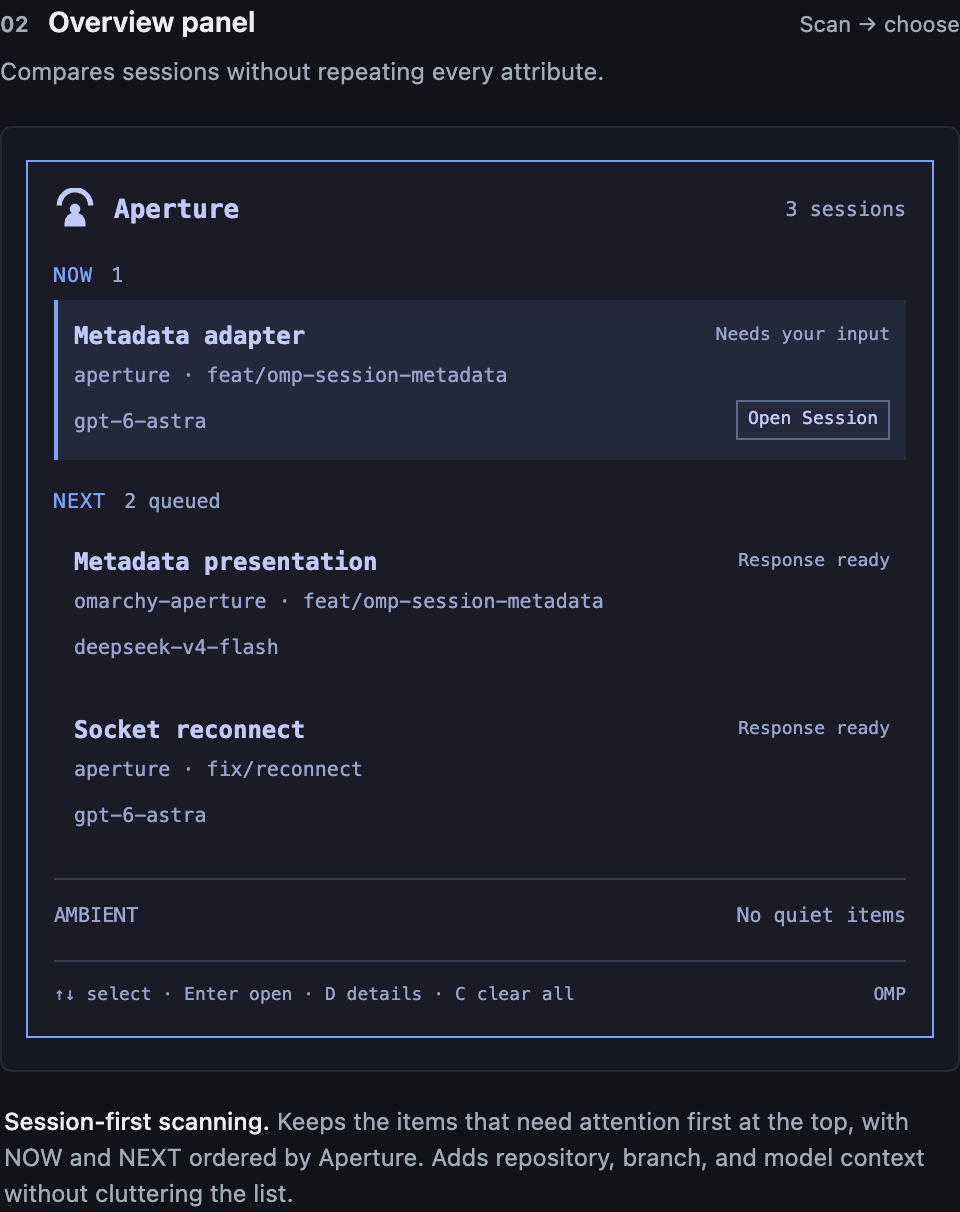
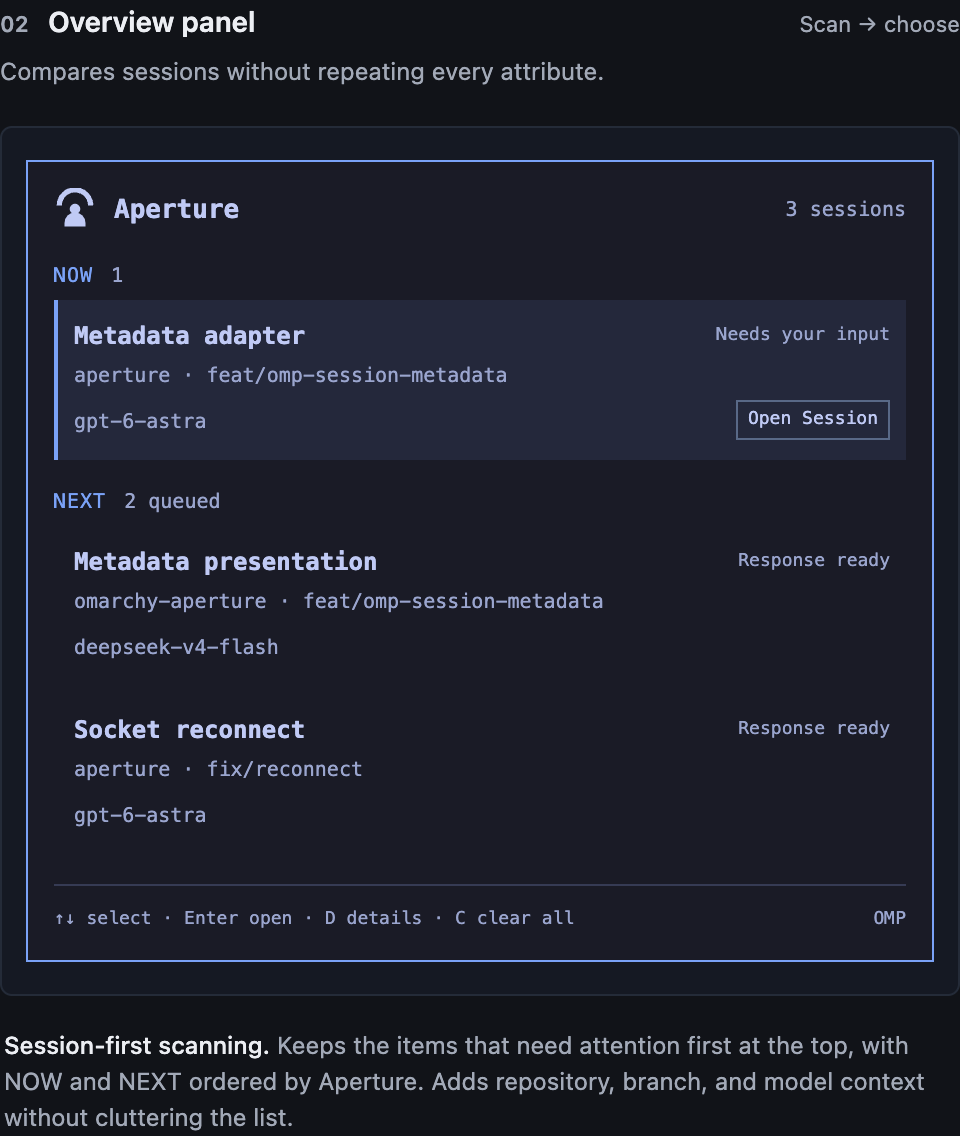
fix: polish empty overview and center Details navigation

diff --git a/docs/mockups/session-metadata.html b/docs/mockups/session-metadata.html
@@ -6,12 +6,12 @@
 <title>Aperture · Session metadata illustrations</title>
 <style>
 :root{color-scheme:dark;--page:#111318;--ink:#eceef3;--quiet:#a2a9b7;--line:#303540;--control:#20242d;--blue:#9bbaff}
-*{box-sizing:border-box}body{margin:0;background:var(--page);color:var(--ink);font:14px/1.5 -apple-system,BlinkMacSystemFont,"Segoe UI",sans-serif}button,input{font:inherit}button{cursor:pointer}button:focus-visible,a:focus-visible,input:focus-visible,[tabindex]:focus-visible{outline:2px solid var(--blue);outline-offset:4px}button:disabled{opacity:.4;cursor:default}main{max-width:1500px;margin:auto;padding:36px 36px 48px}.eyebrow{font-size:11px;letter-spacing:.13em;text-transform:uppercase;color:var(--quiet)}header{display:flex;justify-content:space-between;gap:32px;align-items:flex-start}h1{font-size:30px;line-height:1.2;letter-spacing:-.025em;font-weight:600;margin:9px 0 10px}header p{margin:0;color:var(--quiet);max-width:690px}.draft{font-size:11px;color:var(--quiet);border:1px solid var(--line);border-radius:20px;padding:5px 12px;white-space:nowrap;margin-top:5px}.controls{display:flex;align-items:center;justify-content:space-between;flex-wrap:wrap;gap:16px;padding:24px 0 18px}.switcher{display:flex;gap:4px;padding:4px;background:var(--control);border:1px solid var(--line);border-radius:8px}.switcher button{border:0;border-radius:4px;padding:8px 14px;background:none;color:var(--quiet);font-size:12px}.switcher button[aria-pressed=true]{background:#394358;color:#fff}.toggles{display:flex;align-items:center;gap:18px;font-size:12px;color:var(--quiet)}.toggles label{display:flex;gap:7px;align-items:center;cursor:pointer}.toggles input{accent-color:var(--blue)}.thesis{display:flex;align-items:baseline;gap:12px;border-top:1px solid var(--line);border-bottom:1px solid var(--line);padding:14px 0;margin-bottom:28px;font-size:13px}.thesis strong{color:var(--blue);white-space:nowrap}.thesis span{color:var(--quiet)}.board{display:grid;grid-template-columns:1fr 1.08fr 1.08fr;gap:24px;align-items:start}.column{min-width:0}.column-head{display:flex;justify-content:space-between;align-items:baseline;gap:8px;margin-bottom:6px}.column h2{font-size:14px;margin:0;font-weight:600}.number{color:var(--quiet);font-size:11px;margin-right:6px}.verb{font-size:11px;color:var(--quiet)}.purpose{color:var(--quiet);font-size:12px;margin:0 0 18px;min-height:36px}.canvas{min-height:422px;padding:16px 12px;border-radius:6px;background:#151923;border:1px solid #242b38}.surface{--panel:#1a1b26;--raised:#24283b;--text:#c0caf5;--muted:#9aa5ce;--accent:#7aa2f7;--edge:#596987;--faint:#363b54;font:12px/1.5 "SFMono-Regular",Consolas,"Liberation Mono",monospace;color:var(--text)}.light .surface{--panel:#e6e9ef;--raised:#d5dbe7;--text:#253653;--muted:#4d5c76;--accent:#2455a0;--edge:#7587a1;--faint:#c0c9d8}.light .canvas{background:#d4dae3;border-color:#abb8c9}.surface button{color:var(--text);font:inherit;border:1px solid var(--edge);background:none;border-radius:0;padding:3px 7px;white-space:nowrap}.surface button:hover{background:var(--raised)}.surface button:focus-visible{outline-color:var(--accent);outline-offset:2px}.surface button.quiet{border-color:transparent;color:var(--muted)}.surface button.quiet:hover{border-color:var(--edge)}.mark{width:21px;height:21px;color:var(--text);flex-shrink:0}.toast{background:var(--panel);border:1px solid var(--edge);padding:12px;margin-bottom:12px;display:flex;gap:11px;position:relative}.toast .mark{margin-top:1px}.toast-body{min-width:0;flex:1}.primary{font-size:13px;font-weight:700;white-space:nowrap;overflow:hidden;text-overflow:ellipsis;line-height:1.5}.secondary{font-size:11px;color:var(--muted);white-space:nowrap;overflow:hidden;text-overflow:ellipsis}.status{font-size:11px;margin-top:2px}.context{font-size:10px;color:var(--muted);white-space:nowrap;overflow:hidden;text-overflow:ellipsis;margin-top:8px}.toast-footer{display:flex;align-items:center;justify-content:space-between;gap:6px;margin-top:10px;min-height:23px}.model{font-size:10px;color:var(--muted);white-space:nowrap;overflow:hidden;text-overflow:ellipsis;min-width:0}.actions{display:flex;gap:3px;opacity:0;pointer-events:none;flex-shrink:0}.actions button{font-size:9px;padding:3px 5px}.toast:hover .actions,.toast:focus-within .actions{opacity:1;pointer-events:auto}.checkout-tag{font-size:10px;color:var(--muted);margin-top:5px;white-space:nowrap;overflow:hidden;text-overflow:ellipsis}.surface-note{font-size:10px;color:var(--muted);padding:4px 1px}.overview,.detail{background:var(--panel);border:1px solid var(--accent);padding:13px}.surface-heading{display:flex;align-items:center;gap:9px;margin-bottom:15px;font-weight:700;font-size:13px}.surface-heading .hint{margin-left:auto;font-size:10px;font-weight:400;color:var(--muted)}.lane-heading{font-size:10px;color:var(--accent);margin:13px 0 5px;letter-spacing:.05em;display:flex;gap:9px}.lane-heading span{color:var(--muted);letter-spacing:0}.row{position:relative;padding:9px 8px;margin-bottom:4px;border-left:2px solid transparent;min-width:0}.row.selected{background:var(--raised);border-left-color:var(--accent)}.row:hover,.row:focus-within{background:var(--raised)}.row-top{display:flex;align-items:center;gap:7px}.row-top .primary{flex:1;min-width:0;font-size:12px}.row-top .row-status{font-size:9px;white-space:nowrap;color:var(--muted)}.row .context{margin-top:3px}.row-bottom{display:flex;align-items:center;justify-content:space-between;gap:8px;min-height:22px;margin-top:4px}.row .row-actions{opacity:0;display:flex;gap:3px}.row.selected .row-actions,.row:hover .row-actions,.row:focus-within .row-actions{opacity:1}.row-actions button{font-size:9px;padding:2px 5px}.quiet-lane{border-top:1px solid var(--faint);margin-top:12px;padding-top:10px;display:flex;justify-content:space-between;color:var(--muted);font-size:10px}.surface-footer{border-top:1px solid var(--faint);margin-top:15px;padding-top:10px;font-size:9px;color:var(--muted);display:flex;justify-content:space-between;gap:8px}.details-toolbar{display:flex;justify-content:space-between;align-items:center;padding-bottom:12px;border-bottom:1px solid var(--faint);margin-bottom:14px}.details-toolbar span{font-size:10px;color:var(--muted)}.details-toolbar button{font-size:10px}.detail .primary{white-space:normal;overflow-wrap:anywhere;font-size:14px}.detail .event-body{font-size:11px;margin:12px 0 18px;color:var(--text);overflow-wrap:anywhere}.section-label{font-size:9px;letter-spacing:.08em;color:var(--muted);margin:17px 0 8px;text-transform:uppercase}.facts{margin:0;display:grid;grid-template-columns:78px minmax(0,1fr);font-size:10px;gap:8px 10px}.facts dt{color:var(--muted)}.facts dd{margin:0;overflow-wrap:anywhere}.facts .mono{font-variant-ligatures:none}.scope-note{font-size:10px;color:var(--muted);border-top:1px solid var(--faint);padding-top:12px;margin:17px 0 0}.privacy-note{padding:14px 0;color:var(--muted);font-size:11px}.privacy-note button{display:block;margin-top:13px;font-size:10px}.revealed{color:var(--accent);font-size:10px;margin-bottom:10px}.description{font-size:12px;color:var(--quiet);margin:16px 2px 0}.description strong{color:var(--ink);font-weight:500}.annotations{margin-top:28px;display:grid;grid-template-columns:1fr 1fr 1fr;gap:24px;border-top:1px solid var(--line);padding-top:22px}.annotations h3{font-size:12px;font-weight:600;margin:0 0 7px}.annotations p{font-size:12px;color:var(--quiet);margin:0}.comparison{margin-top:28px;border-top:1px solid var(--line);padding-top:20px}.comparison h2{font-size:14px;font-weight:600;margin:0 0 12px}.comparison table{border-collapse:collapse;width:100%;font-size:12px;text-align:left}.comparison th{color:var(--quiet);font-weight:500}.comparison td,.comparison th{padding:9px 12px;border-bottom:1px solid var(--line);vertical-align:top}.comparison td:first-child,.comparison th:first-child{padding-left:0}.comparison td:not(:first-child){color:var(--quiet)}.footer{margin-top:24px;display:flex;justify-content:space-between;gap:20px;color:var(--quiet);font-size:11px}.feedback{min-height:20px;margin-top:10px;font-size:12px;color:var(--blue)}.sr-only{position:absolute;width:1px;height:1px;overflow:hidden;clip-path:inset(50%)}
+*{box-sizing:border-box}body{margin:0;background:var(--page);color:var(--ink);font:14px/1.5 -apple-system,BlinkMacSystemFont,"Segoe UI",sans-serif}button,input{font:inherit}button{cursor:pointer}button:focus-visible,a:focus-visible,input:focus-visible,[tabindex]:focus-visible{outline:2px solid var(--blue);outline-offset:4px}button:disabled{opacity:.4;cursor:default}main{max-width:1500px;margin:auto;padding:36px 36px 48px}.eyebrow{font-size:11px;letter-spacing:.13em;text-transform:uppercase;color:var(--quiet)}header{display:flex;justify-content:space-between;gap:32px;align-items:flex-start}h1{font-size:30px;line-height:1.2;letter-spacing:-.025em;font-weight:600;margin:9px 0 10px}header p{margin:0;color:var(--quiet);max-width:690px}.draft{font-size:11px;color:var(--quiet);border:1px solid var(--line);border-radius:20px;padding:5px 12px;white-space:nowrap;margin-top:5px}.controls{display:flex;align-items:center;justify-content:space-between;flex-wrap:wrap;gap:16px;padding:24px 0 18px}.switcher{display:flex;gap:4px;padding:4px;background:var(--control);border:1px solid var(--line);border-radius:8px}.switcher button{border:0;border-radius:4px;padding:8px 14px;background:none;color:var(--quiet);font-size:12px}.switcher button[aria-pressed=true]{background:#394358;color:#fff}.toggles{display:flex;align-items:center;gap:18px;font-size:12px;color:var(--quiet)}.toggles label{display:flex;gap:7px;align-items:center;cursor:pointer}.toggles input{accent-color:var(--blue)}.thesis{display:flex;align-items:baseline;gap:12px;border-top:1px solid var(--line);border-bottom:1px solid var(--line);padding:14px 0;margin-bottom:28px;font-size:13px}.thesis strong{color:var(--blue);white-space:nowrap}.thesis span{color:var(--quiet)}.board{display:grid;grid-template-columns:1fr 1.08fr 1.08fr;gap:24px;align-items:start}.column{min-width:0}.column-head{display:flex;justify-content:space-between;align-items:baseline;gap:8px;margin-bottom:6px}.column h2{font-size:14px;margin:0;font-weight:600}.number{color:var(--quiet);font-size:11px;margin-right:6px}.verb{font-size:11px;color:var(--quiet)}.purpose{color:var(--quiet);font-size:12px;margin:0 0 18px;min-height:36px}.canvas{min-height:422px;padding:16px 12px;border-radius:6px;background:#151923;border:1px solid #242b38}.surface{--panel:#1a1b26;--raised:#24283b;--text:#c0caf5;--muted:#9aa5ce;--accent:#7aa2f7;--edge:#596987;--faint:#363b54;font:12px/1.5 "SFMono-Regular",Consolas,"Liberation Mono",monospace;color:var(--text)}.light .surface{--panel:#e6e9ef;--raised:#d5dbe7;--text:#253653;--muted:#4d5c76;--accent:#2455a0;--edge:#7587a1;--faint:#c0c9d8}.light .canvas{background:#d4dae3;border-color:#abb8c9}.surface button{color:var(--text);font:inherit;border:1px solid var(--edge);background:none;border-radius:0;padding:3px 7px;white-space:nowrap}.surface button:hover{background:var(--raised)}.surface button:focus-visible{outline-color:var(--accent);outline-offset:2px}.surface button.quiet{border-color:transparent;color:var(--muted)}.surface button.quiet:hover{border-color:var(--edge)}.mark{width:21px;height:21px;color:var(--text);flex-shrink:0}.toast{background:var(--panel);border:1px solid var(--edge);padding:12px;margin-bottom:12px;display:flex;gap:11px;position:relative}.toast .mark{margin-top:1px}.toast-body{min-width:0;flex:1}.primary{font-size:13px;font-weight:700;white-space:nowrap;overflow:hidden;text-overflow:ellipsis;line-height:1.5}.secondary{font-size:11px;color:var(--muted);white-space:nowrap;overflow:hidden;text-overflow:ellipsis}.status{font-size:11px;margin-top:2px}.context{font-size:10px;color:var(--muted);white-space:nowrap;overflow:hidden;text-overflow:ellipsis;margin-top:8px}.toast-footer{display:flex;align-items:center;justify-content:space-between;gap:6px;margin-top:10px;min-height:23px}.model{font-size:10px;color:var(--muted);white-space:nowrap;overflow:hidden;text-overflow:ellipsis;min-width:0}.actions{display:flex;gap:3px;opacity:0;pointer-events:none;flex-shrink:0}.actions button{font-size:9px;padding:3px 5px}.toast:hover .actions,.toast:focus-within .actions{opacity:1;pointer-events:auto}.checkout-tag{font-size:10px;color:var(--muted);margin-top:5px;white-space:nowrap;overflow:hidden;text-overflow:ellipsis}.surface-note{font-size:10px;color:var(--muted);padding:4px 1px}.overview,.detail{background:var(--panel);border:1px solid var(--accent);padding:13px}.surface-heading{display:flex;align-items:center;gap:9px;margin-bottom:15px;font-weight:700;font-size:13px}.surface-heading .hint{margin-left:auto;font-size:10px;font-weight:400;color:var(--muted)}.lane-heading{font-size:10px;color:var(--accent);margin:13px 0 5px;letter-spacing:.05em;display:flex;gap:9px}.lane-heading span{color:var(--muted);letter-spacing:0}.row{position:relative;padding:9px 8px;margin-bottom:4px;border-left:2px solid transparent;min-width:0}.row.selected{background:var(--raised);border-left-color:var(--accent)}.row:hover,.row:focus-within{background:var(--raised)}.row-top{display:flex;align-items:center;gap:7px}.row-top .primary{flex:1;min-width:0;font-size:12px}.row-top .row-status{font-size:9px;white-space:nowrap;color:var(--muted)}.row .context{margin-top:3px}.row-bottom{display:flex;align-items:center;justify-content:space-between;gap:8px;min-height:22px;margin-top:4px}.row .row-actions{opacity:0;display:flex;gap:3px}.row.selected .row-actions,.row:hover .row-actions,.row:focus-within .row-actions{opacity:1}.row-actions button{font-size:9px;padding:2px 5px}.surface-footer{border-top:1px solid var(--faint);margin-top:15px;padding-top:10px;font-size:9px;color:var(--muted);display:flex;justify-content:space-between;gap:8px}.details-toolbar{display:flex;justify-content:space-between;align-items:center;padding-bottom:12px;border-bottom:1px solid var(--faint);margin-bottom:14px}.details-toolbar span{font-size:10px;color:var(--muted)}.details-toolbar button{font-size:10px}.detail .primary{white-space:normal;overflow-wrap:anywhere;font-size:14px}.detail .event-body{font-size:11px;margin:12px 0 18px;color:var(--text);overflow-wrap:anywhere}.section-label{font-size:9px;letter-spacing:.08em;color:var(--muted);margin:17px 0 8px;text-transform:uppercase}.facts{margin:0;display:grid;grid-template-columns:78px minmax(0,1fr);font-size:10px;gap:8px 10px}.facts dt{color:var(--muted)}.facts dd{margin:0;overflow-wrap:anywhere}.facts .mono{font-variant-ligatures:none}.scope-note{font-size:10px;color:var(--muted);border-top:1px solid var(--faint);padding-top:12px;margin:17px 0 0}.privacy-note{padding:14px 0;color:var(--muted);font-size:11px}.privacy-note button{display:block;margin-top:13px;font-size:10px}.revealed{color:var(--accent);font-size:10px;margin-bottom:10px}.description{font-size:12px;color:var(--quiet);margin:16px 2px 0}.description strong{color:var(--ink);font-weight:500}.annotations{margin-top:28px;display:grid;grid-template-columns:1fr 1fr 1fr;gap:24px;border-top:1px solid var(--line);padding-top:22px}.annotations h3{font-size:12px;font-weight:600;margin:0 0 7px}.annotations p{font-size:12px;color:var(--quiet);margin:0}.comparison{margin-top:28px;border-top:1px solid var(--line);padding-top:20px}.comparison h2{font-size:14px;font-weight:600;margin:0 0 12px}.comparison table{border-collapse:collapse;width:100%;font-size:12px;text-align:left}.comparison th{color:var(--quiet);font-weight:500}.comparison td,.comparison th{padding:9px 12px;border-bottom:1px solid var(--line);vertical-align:top}.comparison td:first-child,.comparison th:first-child{padding-left:0}.comparison td:not(:first-child){color:var(--quiet)}.footer{margin-top:24px;display:flex;justify-content:space-between;gap:20px;color:var(--quiet);font-size:11px}.feedback{min-height:20px;margin-top:10px;font-size:12px;color:var(--blue)}.sr-only{position:absolute;width:1px;height:1px;overflow:hidden;clip-path:inset(50%)}
 @media(max-width:1100px){main{padding:24px}.board{grid-template-columns:1fr 1fr}.column:last-child{grid-column:1/-1;max-width:510px;width:100%}.canvas{min-height:0}.purpose{min-height:0}.annotations{grid-template-columns:1fr}.thesis{align-items:flex-start}.comparison{overflow:auto}}
 @media(max-width:640px){main{padding:22px 16px}.board{grid-template-columns:1fr;gap:28px}.column:last-child{grid-column:auto;max-width:none}header{display:block}.draft{display:inline-block;margin-top:18px}.controls{align-items:flex-start}.toggles{gap:12px;flex-wrap:wrap}.switcher{width:100%}.switcher button{flex:1;padding:8px}.thesis{display:block}.thesis strong{display:block;margin-bottom:5px}.footer{display:block}.footer span{display:block;margin-bottom:7px}}
 @media(prefers-reduced-motion:no-preference){.actions,.row-actions{transition:opacity .12s ease}}
 /* Review-only controls; the board itself is also the documentation illustration. */
-.preview-toolbar{display:flex;align-items:center;flex-wrap:wrap;gap:12px;padding:18px 0;color:var(--quiet);font-size:12px}.preview-toolbar select,.preview-toolbar button{background:var(--control);color:var(--ink);border:1px solid var(--line);border-radius:4px;padding:6px 10px;font:inherit}.preview-toolbar label{display:flex;gap:9px;align-items:center}.keyboard-target{margin-left:auto;font-size:11px}.interactive-view:focus{outline:2px solid var(--blue);outline-offset:4px}.toast,.row{cursor:pointer}.toast:focus-visible{outline:2px solid var(--accent);outline-offset:3px}.details-toolbar{gap:8px}.details-nav{display:flex;align-items:center;gap:5px}.details-nav span{white-space:nowrap}.empty-state{padding:26px 5px;color:var(--muted);font-size:11px}.empty-state strong{display:block;color:var(--text);font-size:13px;margin-bottom:8px}.empty-state p{margin:0}.surface-footer{flex-wrap:wrap}.feedback{min-height:36px}.documentation .review-only{display:none}.documentation main{padding-top:0}.documentation .board{margin-top:16px}.documentation .preview-toolbar{border-bottom:1px solid var(--line)}.documentation .keyboard-target{display:none}.documentation .interactive-view:focus{outline:none}.documentation[data-preview="notification"] .column:not([data-surface="notification"]),.documentation[data-preview="panel"] .column:not([data-surface="panel"]),.documentation[data-preview="details"] .column:not([data-surface="details"]),.documentation[data-preview="privacy"] .column:not([data-surface="details"]){display:none}.documentation:not([data-preview="hero"]) .board{display:block;max-width:480px;margin:24px auto}.documentation:not([data-preview="hero"]) .column{max-width:none}.documentation:not([data-preview="hero"]) .canvas{min-height:0}.documentation .surface-note{display:none}.documentation .purpose{min-height:0}
+.preview-toolbar{display:flex;align-items:center;flex-wrap:wrap;gap:12px;padding:18px 0;color:var(--quiet);font-size:12px}.preview-toolbar select,.preview-toolbar button{background:var(--control);color:var(--ink);border:1px solid var(--line);border-radius:4px;padding:6px 10px;font:inherit}.preview-toolbar label{display:flex;gap:9px;align-items:center}.keyboard-target{margin-left:auto;font-size:11px}.interactive-view:focus{outline:2px solid var(--blue);outline-offset:4px}.toast,.row{cursor:pointer}.toast:focus-visible{outline:2px solid var(--accent);outline-offset:3px}.details-toolbar{display:grid;grid-template-columns:1fr auto 1fr;justify-items:start;gap:8px}.details-toolbar>button:last-child{justify-self:end}.details-nav{display:flex;align-items:center;gap:5px}.details-nav span{white-space:nowrap}.empty-state{padding:26px 5px;color:var(--muted);font-size:11px}.empty-state strong{display:block;color:var(--text);font-size:13px;margin-bottom:8px}.empty-state p{margin:0}.surface-footer{flex-wrap:wrap}.feedback{min-height:36px}.documentation .review-only{display:none}.documentation main{padding-top:0}.documentation .board{margin-top:16px}.documentation .preview-toolbar{border-bottom:1px solid var(--line)}.documentation .keyboard-target{display:none}.documentation .interactive-view:focus{outline:none}.documentation[data-preview="notification"] .column:not([data-surface="notification"]),.documentation[data-preview="panel"] .column:not([data-surface="panel"]),.documentation[data-preview="details"] .column:not([data-surface="details"]),.documentation[data-preview="privacy"] .column:not([data-surface="details"]){display:none}.documentation:not([data-preview="hero"]) .board{display:block;max-width:480px;margin:24px auto}.documentation:not([data-preview="hero"]) .column{max-width:none}.documentation:not([data-preview="hero"]) .canvas{min-height:0}.documentation .surface-note{display:none}.documentation .purpose{min-height:0}
 .privacy-copy{display:none}.documentation[data-preview="privacy"] .details-copy{display:none}.documentation[data-preview="privacy"] .privacy-copy{display:block}
 </style>
 </head>
@@ -95,7 +95,6 @@ function renderOverview(items) {
   }).join('');
   document.getElementById('overview').innerHTML = heading + (lanes ||
     '<div class="empty-state"><strong>Nothing needs you now</strong><p>Attention cleared. Your OMP sessions are still running; new events can appear.</p></div>')
-    + '<div class="quiet-lane"><span>AMBIENT</span><span>No quiet items</span></div>'
     + '<div class="surface-footer"><span>↑↓ select · Enter open · D details · C clear all</span><span>OMP</span></div>';
 }
 function detailsFooter() {

diff --git a/Panel.qml b/Panel.qml
@@ -1115,12 +1115,12 @@ Panel {
           }
           Item {
             id: detailsToolbar
-            readonly property bool wrapped: width < overviewButton.width
-              + detailsNavigation.width + detailOpen.width + Style.space(12)
+            readonly property bool wrapped: width < 2 * Math.max(
+              overviewButton.width, detailOpen.width) + detailsNavigation.width + Style.space(12)
             visible: root.inspectionOpen
             width: parent.width
             implicitHeight: Math.max(overviewButton.implicitHeight, detailOpen.implicitHeight)
-              + (wrapped ? detailOpen.implicitHeight + Style.space(6) : 0) + Style.space(14)
+              + (wrapped ? detailsNavigation.height + Style.space(6) : 0) + Style.space(14)
             DetailButton {
               id: overviewButton
               anchors.left: parent.left
@@ -1130,9 +1130,10 @@ Panel {
             }
             Row {
               id: detailsNavigation
-              anchors.left: overviewButton.right
-              anchors.leftMargin: Style.space(4)
-              anchors.verticalCenter: overviewButton.verticalCenter
+              anchors.horizontalCenter: parent.horizontalCenter
+              y: detailsToolbar.wrapped
+                ? Math.max(overviewButton.height, detailOpen.height) + Style.space(6)
+                : (overviewButton.height - height) / 2
               spacing: Style.space(2)
               DetailButton {
                 text: "‹"
@@ -1160,7 +1161,6 @@ Panel {
             DetailButton {
               id: detailOpen
               anchors.right: parent.right
-              y: detailsToolbar.wrapped ? overviewButton.height + Style.space(6) : 0
               text: "Open Session"
               enabled: root.canFocusFrame(root.inspectedFrame)
               tooltipText: root.navigationStatusText(root.inspectedFrame)
@@ -1432,6 +1432,7 @@ Panel {
 
             Item {
               id: ambientHeader
+              visible: root.totals.ambient > 0
               readonly property bool expandable: root.ambientFrames.length > 3
               Accessible.role: expandable
                 ? Accessible.Button : Accessible.StaticText

diff --git a/README.md b/README.md
@@ -4,18 +4,18 @@
 
 **An attention panel for your OMP sessions, built into Omarchy.**
 
-[![release](https://img.shields.io/badge/release-0.2.0-2563eb)](https://github.com/tomismeta/omarchy-aperture/releases/tag/omarchy-aperture-v0.2.0)
+[![release](https://img.shields.io/badge/release-0.2.1-2563eb)](https://github.com/tomismeta/omarchy-aperture/releases/tag/omarchy-aperture-v0.2.1)
 [![Omarchy](https://img.shields.io/badge/Omarchy-shell%20plugin-7c3aed)](https://omarchy.org/manual/shell-plugins/)
 [![OMP](https://img.shields.io/badge/OMP-18%2B-0f766e)](https://github.com/can1357/oh-my-pi)
 [![license](https://img.shields.io/badge/license-MIT-6f42c1)](./LICENSE)
 
-<img src="preview.png?v=session-metadata" alt="Approved HTML illustration of Aperture notifications, overview, and Details with session metadata" width="1440">
+<img src="preview.png?v=panel-polish" alt="Approved HTML illustration of Aperture notifications, overview, and Details with session metadata" width="1440">
 <p>Your agent sessions, at a glance. Approved HTML illustration; not a runtime screenshot.</p>
 </div>
 
 See what needs you, inspect the details, and jump back to the right session.
 
-**0.2.0** includes authenticated signed worker **v0.8.14**.
+**0.2.1** includes authenticated signed worker **v0.8.14**.
 See the [release notes][release-notes].
 
 - Follow requests for input or approval, failures, and completed work across OMP sessions.
@@ -139,17 +139,17 @@ Omarchy theme. [HTML illustration source](docs/mockups/session-metadata.html).
 **Notifications:** recognize the session and its reason for attention. Click
 the popup for the overview, or use **Open Session** to return directly.
 
-<img src="docs/images/overview.png?v=session-metadata" alt="HTML illustration of the Aperture overview with Metadata adapter in NOW and Metadata presentation and Socket reconnect in NEXT" width="480">
+<img src="docs/images/overview.png?v=panel-polish" alt="HTML illustration of the Aperture overview with Metadata adapter in NOW and Metadata presentation and Socket reconnect in NEXT" width="480">
 
 **Overview:** scan sessions in Aperture's NOW and NEXT order. Click a row or
 press **D** to inspect it; **Enter / Open Session** opens its session.
 
-<img src="docs/images/details.png?v=session-metadata" alt="HTML illustration of Aperture Details with event context, repository, branch, worktree, provider, and model" width="480">
+<img src="docs/images/details.png?v=panel-polish" alt="HTML illustration of Aperture Details with event context, repository, branch, worktree, provider, and model" width="480">
 
 **Details:** complete supplied event context and labeled metadata; the event
 text may be shorter than the agent's response. **C** clears this item only.
 
-<img src="docs/images/privacy.png?v=session-metadata" alt="HTML illustration of private Aperture Details with neutral placeholders and a panel-only reveal action" width="480">
+<img src="docs/images/privacy.png?v=panel-polish" alt="HTML illustration of private Aperture Details with neutral placeholders and a panel-only reveal action" width="480">
 
 **Privacy (P):** neutral placeholders hide session text and metadata without
 changing ordering or session navigation. Revealing the panel leaves

diff --git a/RELEASE-NOTES.md b/RELEASE-NOTES.md
@@ -1,4 +1,4 @@
-# Aperture for Omarchy 0.2.0
+# Aperture for Omarchy 0.2.1
 
 This release includes authenticated signed worker **v0.8.14**, published from
 protected upstream commit `c9d1c32d3524afd3bbefe9a693fcf6ebfdb2aec3` and imported
@@ -6,6 +6,15 @@ through the normal authenticated vendor command. The included OMP package is
 **0.2.0**. Stock OMP 18+ and Node 22+ remain required.
 
 Earlier signed plugin releases and their archives are unchanged.
+
+## Panel polish
+
+- Empty AMBIENT sections are omitted, including their divider and placeholder.
+- Details card navigation is centered across the panel, independently of
+  Overview and Open Session. Narrow panels place navigation on a centered
+  second row rather than overlapping either action.
+- The worker and included OMP extension are unchanged from the signed 0.2.0
+  candidate; existing OMP sessions do not need another restart for this patch.
 
 ## Session metadata and Details
 
